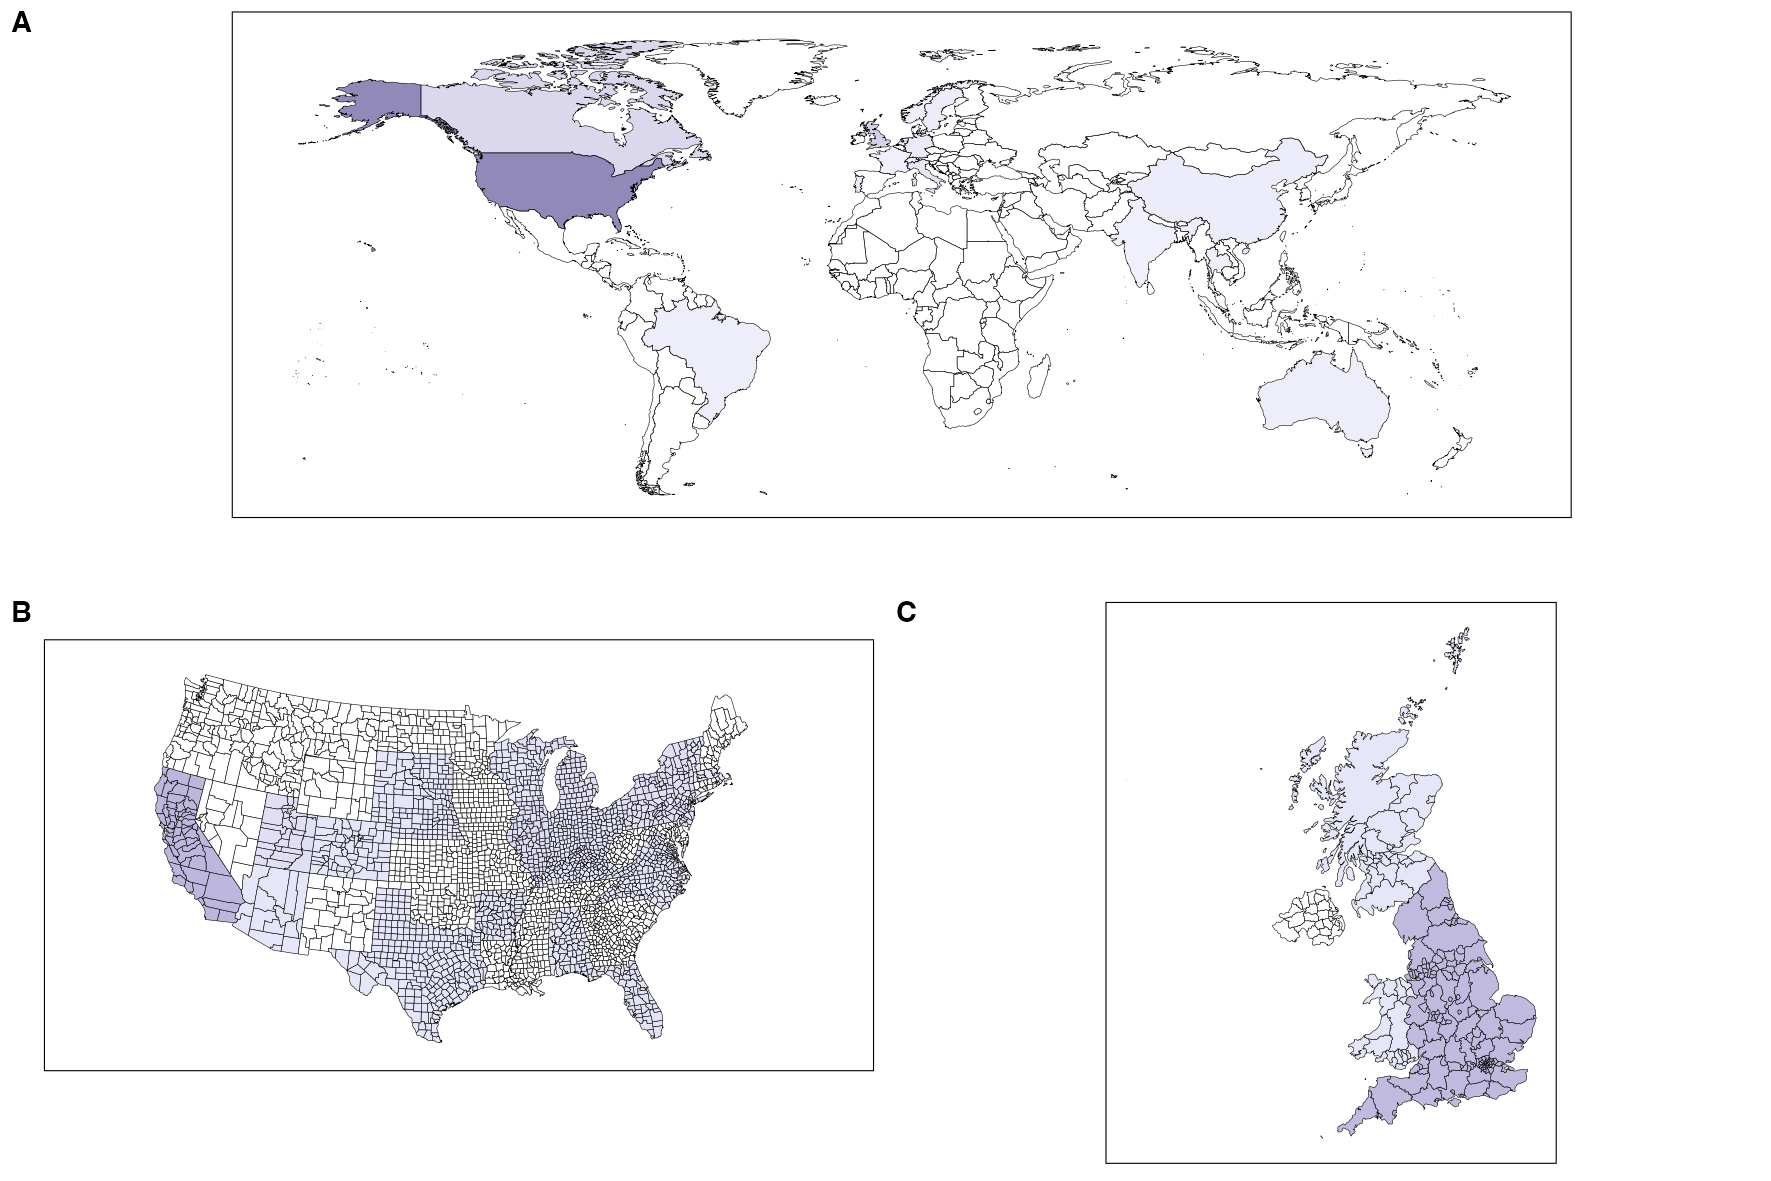
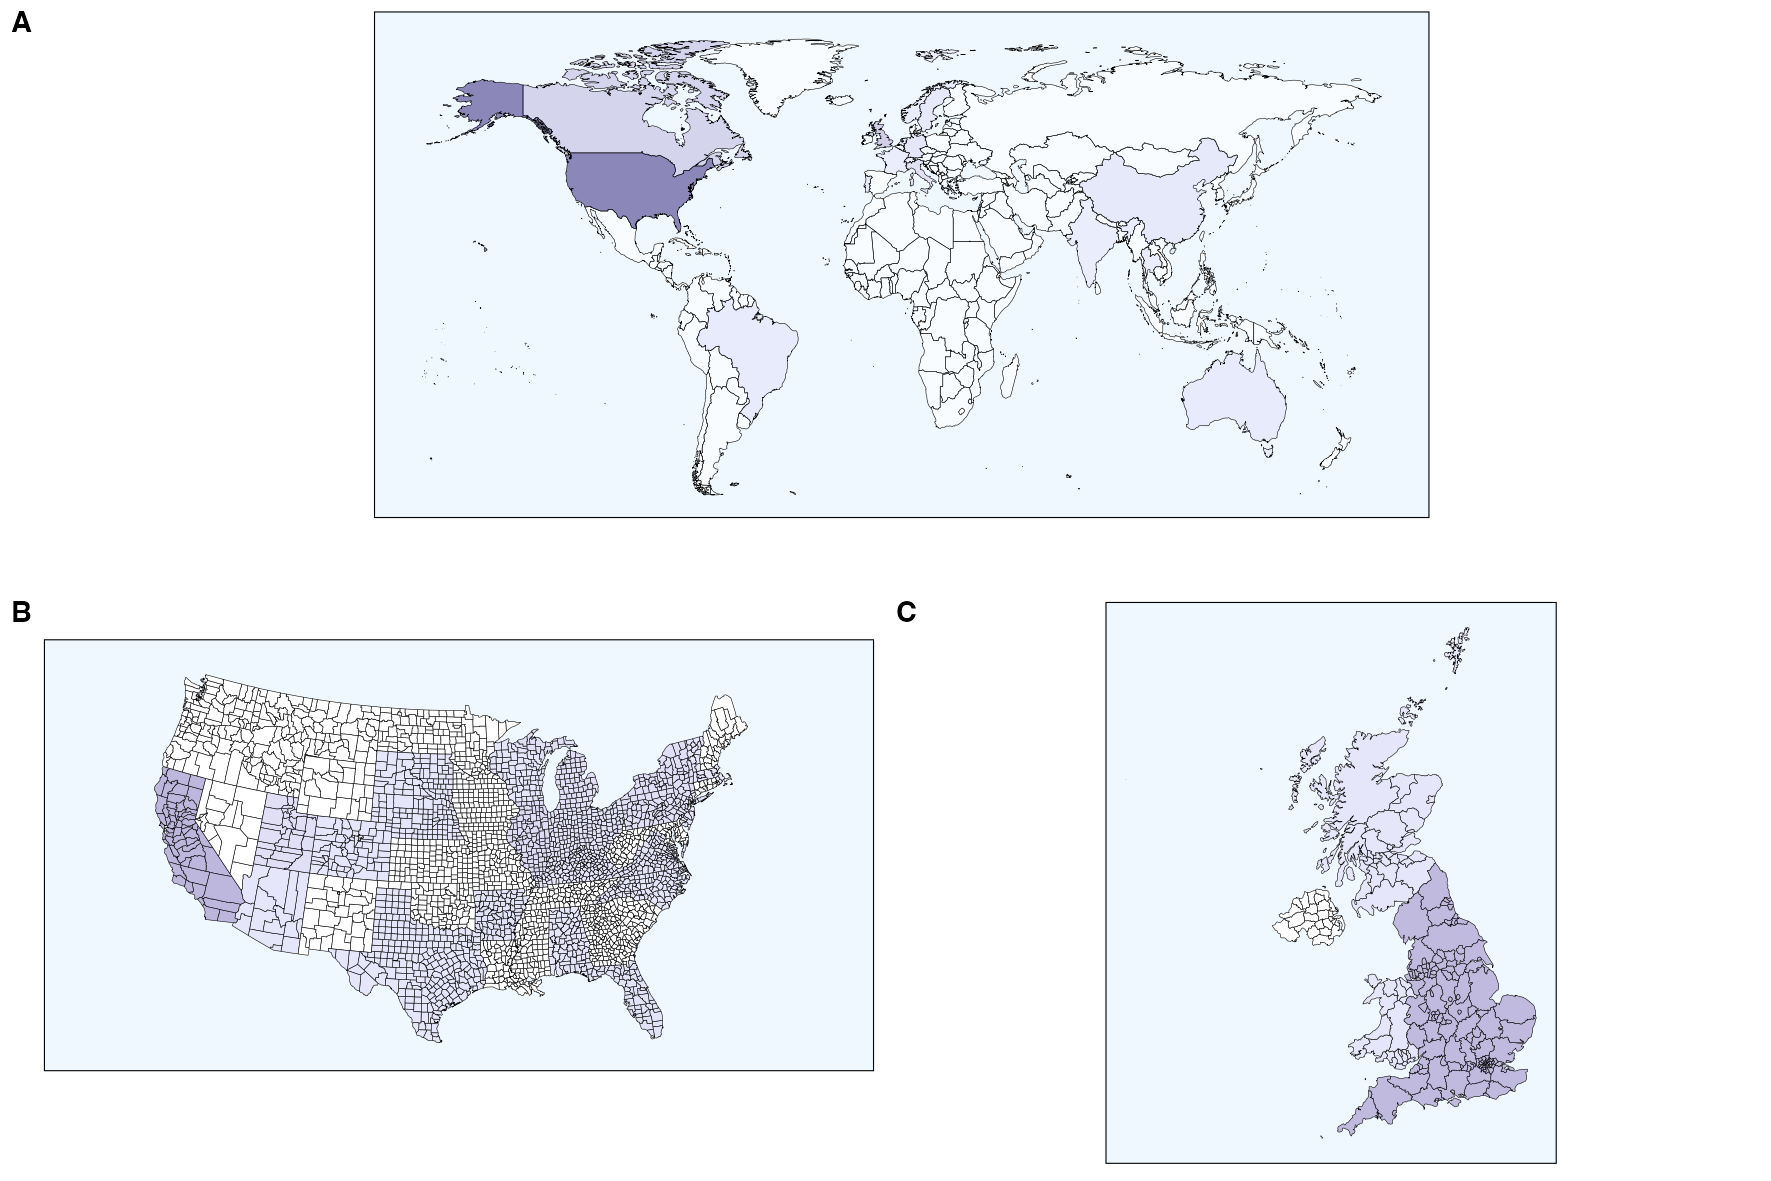
generated bar plot illustrating differences in the appearance of primary performance indicators across studies; spot edited typos in extraction data

diff --git a/scripts/cleaning-script.md b/scripts/cleaning-script.md
@@ -396,7 +396,7 @@ national_frequencies <- spatial_frequencies_joined %>%
   ylab("") +
   scale_y_continuous(limits=c(-55,85)) +
   labs(caption="") +
-  theme(legend.key.width=unit(3,"lines"),legend.position="none",legend.justification="center",legend.box.spacing=unit(-15,"pt"),legend.key.size=unit(10,"pt"),panel.grid=element_blank(),panel.background=element_rect(fill="white"),panel.border=element_rect(fill=NA),axis.text=element_blank(),axis.ticks=element_blank(),legend.title=element_text(size=10),legend.text=element_text(size=10),plot.title=element_text(size=10))
+  theme(aspect.ratio=.48,legend.key.width=unit(3,"lines"),legend.position="none",legend.justification="center",legend.box.spacing=unit(-15,"pt"),legend.key.size=unit(10,"pt"),panel.grid=element_blank(),panel.background=element_rect(fill="aliceblue"),panel.border=element_rect(fill=NA),axis.text=element_blank(),axis.ticks=element_blank(),legend.title=element_text(size=10),legend.text=element_text(size=10),plot.title=element_text(size=10))
 ```
 
 scale_fill_gradient(name=“Count”,low=“lavender”,high=“slateblue4”,limits=c(1,116),na.value=“lavender”,breaks=c(1,29,58,87,116)) +
@@ -459,7 +459,7 @@ usa_frequencies <- state_frequencies_joined %>%
   ylab("") +
   labs(caption="") +
   coord_map("albers",lat0=45.5,lat1=29.5) +
-  theme(legend.key.width=unit(3,"lines"),legend.position="none",legend.justification="center",legend.box.spacing=unit(-15,"pt"),legend.key.size=unit(10,"pt"),panel.grid=element_blank(),panel.background=element_rect(fill="white"),panel.border=element_rect(fill=NA),axis.text=element_blank(),axis.ticks=element_blank(),legend.title=element_text(size=10),legend.text=element_text(size=10),plot.title=element_text(size=10))
+  theme(legend.key.width=unit(3,"lines"),legend.position="none",legend.justification="center",legend.box.spacing=unit(-15,"pt"),legend.key.size=unit(10,"pt"),panel.grid=element_blank(),panel.background=element_rect(fill="aliceblue"),panel.border=element_rect(fill=NA),axis.text=element_blank(),axis.ticks=element_blank(),legend.title=element_text(size=10),legend.text=element_text(size=10),plot.title=element_text(size=10))
 ```
 
 ``` r
@@ -510,7 +510,7 @@ uk_frequencies <- subnational_frequencies_joined %>%
 ggplot(aes(fill=frequency,group=geonunit)) + 
   geom_sf(aes(fill=frequency),color="black",linewidth=0.125) +
   scale_fill_gradient(low="lavender",high="slateblue4",na.value="white",limits=c(1,55)) +
-  theme(legend.key.width=unit(3,"lines"),legend.position="none",legend.justification="center",legend.box.spacing=unit(-15,"pt"),legend.key.size=unit(10,"pt"),panel.grid=element_blank(),panel.background=element_rect(fill="white"),panel.border=element_rect(fill=NA),axis.text=element_blank(),axis.ticks=element_blank(),legend.title=element_text(size=10),legend.text=element_text(size=10),plot.title=element_text(size=10))
+  theme(legend.key.width=unit(3,"lines"),legend.position="none",legend.justification="center",legend.box.spacing=unit(-15,"pt"),legend.key.size=unit(10,"pt"),panel.grid=element_blank(),panel.background=element_rect(fill="aliceblue"),panel.border=element_rect(fill=NA),axis.text=element_blank(),axis.ticks=element_blank(),legend.title=element_text(size=10),legend.text=element_text(size=10),plot.title=element_text(size=10))
 ```
 
 ``` r
@@ -538,66 +538,67 @@ ppi_frequencies <- extraction_data %>%
   separate_longer_delim(c(principal_indicator_var),delim=";") %>%
   add_column(count=1) %>%
   group_by(principal_indicator_var) %>%
-  summarise(frequency=sum(count))
+  summarise(frequency=sum(count)) %>%
+  mutate(across(principal_indicator_var,str_replace_all,"Observed Food Choice","Food Choice, Observed")) %>%
+  mutate(across(principal_indicator_var,str_replace_all,"Observed Food Service","Food Service, Observed")) %>%
+  mutate(across(principal_indicator_var,str_replace_all,"Self-Reported Food Choice","Food Choice, Self-Reported")) %>%
+  mutate(across(principal_indicator_var,str_replace_all,"Intended Food Choice","Food Choice, Intended")) 
 ppi_frequencies 
 ```
 
-    ## # A tibble: 9 × 2
-    ##   principal_indicator_var      frequency
-    ##   <chr>                            <dbl>
-    ## 1 "  Observed Food Choice"             1
-    ## 2 " Observed Food Choice"             11
-    ## 3 " Observed Food Service"             1
-    ## 4 " Self-Reported Food Choice"        30
-    ## 5 "Food Choice Intentions"             1
-    ## 6 "Intended Food Choice"              35
-    ## 7 "Observed Food Choice"              42
-    ## 8 "Observed Food Service"              1
-    ## 9 "Self-Reported Food Choice"         37
+    ## # A tibble: 8 × 2
+    ##   principal_indicator_var       frequency
+    ##   <chr>                             <dbl>
+    ## 1 "  Food Choice, Observed"             1
+    ## 2 " Food Choice, Observed"             11
+    ## 3 " Food Service, Observed"             1
+    ## 4 " Food Choice, Self-Reported"        30
+    ## 5 "Food Choice, Intended"              36
+    ## 6 "Food Choice, Observed"              42
+    ## 7 "Food Service, Observed"              1
+    ## 8 "Food Choice, Self-Reported"         37
 
 ``` r
-extraction_data %>%
-  select(principal_indicator_var) %>%
-  str_count("Self-Reported Food Choice")
+principal_indicator_var_manual <- c("Food Choice, Intended","Food Choice, Self-Reported","Food Choice, Observed","Food Service, Observed")
+frequency_manual <- c(36,67,54,2)
+ppi_frequencies_manual <- tibble(principal_indicator_var_manual,frequency_manual) %>%
+  mutate(mode_manual=case_when(principal_indicator_var_manual=="Food Choice, Intended"~"Intended",
+                        principal_indicator_var_manual=="Food Choice, Self-Reported"~"Self-Reported",
+                        principal_indicator_var_manual=="Food Choice, Observed"~"Observed",
+                        principal_indicator_var_manual=="Food Service, Observed"~"Observed")) %>%
+  mutate(across(principal_indicator_var_manual,str_replace_all,"Food Choice, Observed","Food Choice")) %>%
+  mutate(across(principal_indicator_var_manual,str_replace_all,"Food Choice, Intended","Food Choice")) %>%
+  mutate(across(principal_indicator_var_manual,str_replace_all,"Food Choice, Self-Reported","Food Choice")) %>%
+  mutate(across(principal_indicator_var_manual,str_replace_all,"Food Service, Observed","Food Service"))
+ppi_frequencies_manual 
 ```
 
-    ## Warning in stri_count_regex(string, pattern, opts_regex = opts(pattern)):
-    ## argument is not an atomic vector; coercing
+    ## # A tibble: 4 × 3
+    ##   principal_indicator_var_manual frequency_manual mode_manual  
+    ##   <chr>                                     <dbl> <chr>        
+    ## 1 Food Choice                                  36 Intended     
+    ## 2 Food Choice                                  67 Self-Reported
+    ## 3 Food Choice                                  54 Observed     
+    ## 4 Food Service                                  2 Observed
 
-    ## [1] 67
+need to run chisq.test 36,54,67. 2
 
 ``` r
-extraction_data %>%
-  select(principal_indicator_var) %>%
-  str_count("Observed Food Choice")
+ppi_frequencies_plot <- ppi_frequencies_manual %>%
+  ggplot(aes(x=principal_indicator_var_manual,y=frequency_manual,fill=mode_manual,color=mode_manual)) + 
+  geom_col() +
+  scale_fill_brewer(palette="Pastel1") +
+  scale_color_brewer(palette="Pastel1") +
+  xlab("Indicator") +
+  ylab("Frequency") +
+  guides(fill=guide_legend(title="Mode"),color=guide_legend(title="Mode")) +
+  geom_signif(comparisons=list(c("Food Choice","Food Service")),color="black",size=0.25,annotation="***",y_position=158,tip_length=0.02,vjust=0) +
+  theme(aspect.ratio=1,legend.position="right",panel.grid=element_blank(),panel.background=element_rect(fill="white"),panel.border=element_rect(fill=NA),legend.title=element_text(size=10),legend.text=element_text(size=10),plot.title=element_text(size=10))
+ggsave(filename="primary-performance-indicators.png",plot=ppi_frequencies_plot,path="/Users/kenjinchang/github/stakeholder-analysis/figures",width=20,height=20,units="cm",dpi=150,limitsize=TRUE)
+ppi_frequencies_plot
 ```
 
-    ## Warning in stri_count_regex(string, pattern, opts_regex = opts(pattern)):
-    ## argument is not an atomic vector; coercing
-
-    ## [1] 54
-
-``` r
-extraction_data %>%
-  select(principal_indicator_var) %>%
-  str_count("Intended Food Choice")
-```
-
-    ## Warning in stri_count_regex(string, pattern, opts_regex = opts(pattern)):
-    ## argument is not an atomic vector; coercing
-
-    ## [1] 35
-
-``` r
-extraction_data %>%
-  select(principal_indicator_var) %>%
-  str_count("Observed Food Service")
-```
-
-    ## Warning in stri_count_regex(string, pattern, opts_regex = opts(pattern)):
-    ## argument is not an atomic vector; coercing
-
-    ## [1] 2
+![](cleaning-script_files/figure-gfm/unnamed-chunk-26-1.png)<!-- -->
 
 ### Accessory Performance Indicators
 
@@ -611,25 +612,47 @@ api_frequencies <- extraction_data %>%
 api_frequencies
 ```
 
-    ## # A tibble: 16 × 2
+    ## # A tibble: 15 × 2
     ##    accessory_indicator_var                 frequency
     ##    <chr>                                       <dbl>
     ##  1 " Campus Culture"                               2
     ##  2 " Dietary Health"                              18
     ##  3 " Food Pricing"                                 1
     ##  4 " Guest Dining Experience"                      4
-    ##  5 " Guest Food Choices"                           1
-    ##  6 " Institutional Sustainability"                 2
-    ##  7 " Operating Costs"                             12
-    ##  8 " Staff Satisfaction"                           1
-    ##  9 " Sustainability of Guest Food Choices"         9
-    ## 10 "Campus Culture"                               80
-    ## 11 "Dietary Health"                                9
-    ## 12 "Food Pricing"                                  3
-    ## 13 "Guest Dining Experience"                       1
-    ## 14 "Operating Costs"                               2
-    ## 15 "Sustainability of Guest Food Choices"          3
-    ## 16  <NA>                                          18
+    ##  5 " Institutional Sustainability"                 2
+    ##  6 " Operating Costs"                             12
+    ##  7 " Staff Satisfaction"                           1
+    ##  8 " Sustainability of Guest Food Choices"        10
+    ##  9 "Campus Culture"                               80
+    ## 10 "Dietary Health"                                9
+    ## 11 "Food Pricing"                                  3
+    ## 12 "Guest Dining Experience"                       1
+    ## 13 "Operating Costs"                               2
+    ## 14 "Sustainability of Guest Food Choices"          3
+    ## 15  <NA>                                          18
+
+``` r
+accessory_indicator_var_manual <- c("Food Choice, Intended","Food Choice, Self-Reported","Food Choice, Observed","Food Service, Observed")
+frequency_manual <- c(36,67,54,2)
+ppi_frequencies_manual <- tibble(principal_indicator_var_manual,frequency_manual) %>%
+  mutate(mode_manual=case_when(principal_indicator_var_manual=="Food Choice, Intended"~"Intended",
+                        principal_indicator_var_manual=="Food Choice, Self-Reported"~"Self-Reported",
+                        principal_indicator_var_manual=="Food Choice, Observed"~"Observed",
+                        principal_indicator_var_manual=="Food Service, Observed"~"Observed")) %>%
+  mutate(across(principal_indicator_var_manual,str_replace_all,"Food Choice, Observed","Food Choice")) %>%
+  mutate(across(principal_indicator_var_manual,str_replace_all,"Food Choice, Intended","Food Choice")) %>%
+  mutate(across(principal_indicator_var_manual,str_replace_all,"Food Choice, Self-Reported","Food Choice")) %>%
+  mutate(across(principal_indicator_var_manual,str_replace_all,"Food Service, Observed","Food Service"))
+ppi_frequencies_manual 
+```
+
+    ## # A tibble: 4 × 3
+    ##   principal_indicator_var_manual frequency_manual mode_manual  
+    ##   <chr>                                     <dbl> <chr>        
+    ## 1 Food Choice                                  36 Intended     
+    ## 2 Food Choice                                  67 Self-Reported
+    ## 3 Food Choice                                  54 Observed     
+    ## 4 Food Service                                  2 Observed
 
 not sure why this isn’t collapsing correctly
 
@@ -677,7 +700,7 @@ extraction_data %>%
     ## Warning in stri_count_regex(string, pattern, opts_regex = opts(pattern)):
     ## argument is not an atomic vector; coercing
 
-    ## [1] 12
+    ## [1] 13
 
 ``` r
 extraction_data %>%
